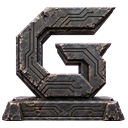
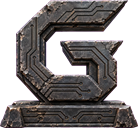
Rank emblem: off the dial's rim, and matched on height
On the rim it cut straight through the progress arc the dial exists to
show. It stands below the dial now, between the ring and the player's name,
with room of its own and its own plinth to stand on.

The emblems are also re-cut: trimmed to their artwork rather than padded
into a square, and sized by height alone. A square box letterboxed the
winged ranks and shrank their letter exactly where the ladder means it to
grow; matched on height they keep one size and spread sideways into the
wings instead, which is how a rank ladder is meant to read.

diff --git a/styles.css b/styles.css
@@ -512,11 +512,19 @@ a:hover { color: var(--gold-text); }
 .wk-labels span.now { color: var(--gold-text); }
 
 .ring-holder { position: relative; display: inline-flex; }
-/* The rank emblem stands on the rim of the dial. It carries its own metal
-   and its own dark backing, so it needs no plate under it — the box, border
-   and glow the old lettered diamond wore would only fight the artwork. */
-.ring-rank { position: absolute; bottom: -14px; left: 50%; transform: translateX(-50%); z-index: 2; display: flex; }
-.rank-art { display: block; object-fit: contain; -webkit-user-drag: none; user-select: none; }
+/* The rank emblem stands below the dial, not on its rim. The old lettered
+   diamond was small enough to sit on the ring; an emblem is a whole
+   composition — crown, letter, plinth — and putting it there cut straight
+   through the progress arc the dial exists to show. Down here it has its own
+   room and its own base to stand on. */
+.hero-rank { display: flex; justify-content: center; margin: 14px 0 2px; filter: drop-shadow(0 4px 12px rgba(0, 0, 0, .5)); }
+/* Every emblem is set to the same height and left to be as wide as its own
+   art: the ladder's higher tiers grow sideways into wings rather than
+   shrinking their letter to fit a square. */
+.hero-rank .rank-art { height: 66px; }
+.rank-table-rank .rank-art { height: 34px; }
+.profile-rank .rank-art { height: 62px; }
+.rank-art { display: block; width: auto; max-width: 100%; -webkit-user-drag: none; user-select: none; }
 /* A rank whose artwork has not been drawn yet still reads: the letter, in
    the shape the emblems used to be. */
 .rank-letter-fallback {
@@ -753,8 +761,8 @@ a:hover { color: var(--gold-text); }
    place it moves. An aura turns behind it, and a band of light crosses the
    artwork — masked to the emblem's own shape, so the light travels over the
    metal and never over the space around it. */
-.rankup-emblem { position: relative; width: 220px; height: 220px; display: grid; place-items: center; animation: rankPop .42s ease both; }
-.rankup-emblem .rank-art { position: relative; z-index: 1; width: 220px; height: 220px; }
+.rankup-emblem { position: relative; display: inline-flex; animation: rankPop .42s ease both; }
+.rankup-emblem > .rank-art { position: relative; z-index: 1; height: 200px; }
 .rankup-aura {
   position: absolute; inset: -22%; border-radius: 50%; z-index: 0;
   background: radial-gradient(circle, var(--gold-soft) 0 34%, rgba(217,160,91,.07) 56%, transparent 74%);
@@ -762,7 +770,7 @@ a:hover { color: var(--gold-text); }
 }
 .rankup-sheen { position: absolute; inset: 0; z-index: 2; overflow: hidden; pointer-events: none; }
 .rankup-sheen .rank-art {
-  position: absolute; inset: 0; width: 220px; height: 220px;
+  position: absolute; inset: 0; height: 100%;
   filter: brightness(2.4) saturate(.4);
   -webkit-mask-image: linear-gradient(105deg, transparent 42%, #000 50%, transparent 58%);
   mask-image: linear-gradient(105deg, transparent 42%, #000 50%, transparent 58%);

diff --git a/js/ui.js b/js/ui.js
@@ -404,8 +404,12 @@
     const has = (SYS.RANK_ART || []).indexOf(rank) >= 0;
     if (!has) return `<span class="rank-letter-fallback ${cls || ""}">${escapeHtml(rank)}</span>`;
     const file = px > 128 ? 512 : 128;
+    // Only the height is given. The emblems are trimmed to their artwork and
+    // are wider the more ornament a rank carries, so a fixed square would
+    // letterbox the winged ones and shrink their letter exactly where the
+    // ladder means it to grow.
     return `<img class="rank-art ${cls || ""}" src="assets/ranks/${encodeURIComponent(rank)}-${file}.png"
-      width="${px}" height="${px}" alt="" aria-hidden="true" loading="lazy" decoding="async" />`;
+      height="${px}" alt="" aria-hidden="true" loading="lazy" decoding="async" />`;
   }
   SYS.rankArt = rankArt;
 
@@ -455,9 +459,9 @@
             <span class="level-ring-label">${t("overview.level")}</span>
             <span class="level-ring-num">${p.level}</span>
             <span class="level-ring-xp">${t("overview.xpOf", { exp: p.exp, of: SYS.levelCost(p.rank) })}</span>`)}
-          <span class="ring-rank" title="${t("status.rank", { rank: p.rank })}">${rankArt(p.rank, 62)}</span>
         </div>
-        <h1 class="page-hero-title" style="margin-top:22px;">${escapeHtml(p.name)}</h1>
+        <div class="hero-rank" title="${t("status.rank", { rank: p.rank })}">${rankArt(p.rank, 66)}</div>
+        <h1 class="page-hero-title">${escapeHtml(p.name)}</h1>
         <div class="page-hero-sub">${t("overview.subtitle", { rank: p.rank, n: p.questsCompleted })}</div>
       </div>
 

diff --git a/sw.js b/sw.js
@@ -2,7 +2,7 @@
 // fresh from the network (so an edit + redeploy shows up the next time you
 // open the app — no reinstall needed) and quietly cached as an offline
 // fallback. Only when the network fails does it serve the last cached copy.
-const CACHE_NAME = "the-system-v96";
+const CACHE_NAME = "the-system-v97";
 const CORE_ASSETS = [
   "./", "./index.html", "./styles.css", "./manifest.json",
   "./js/i18n.js", "./js/constants.js", "./js/storage.js", "./js/engine.js", "./js/state-merge.js", "./js/planner.js", "./js/planner-sync.js", "./js/cloud.js",
